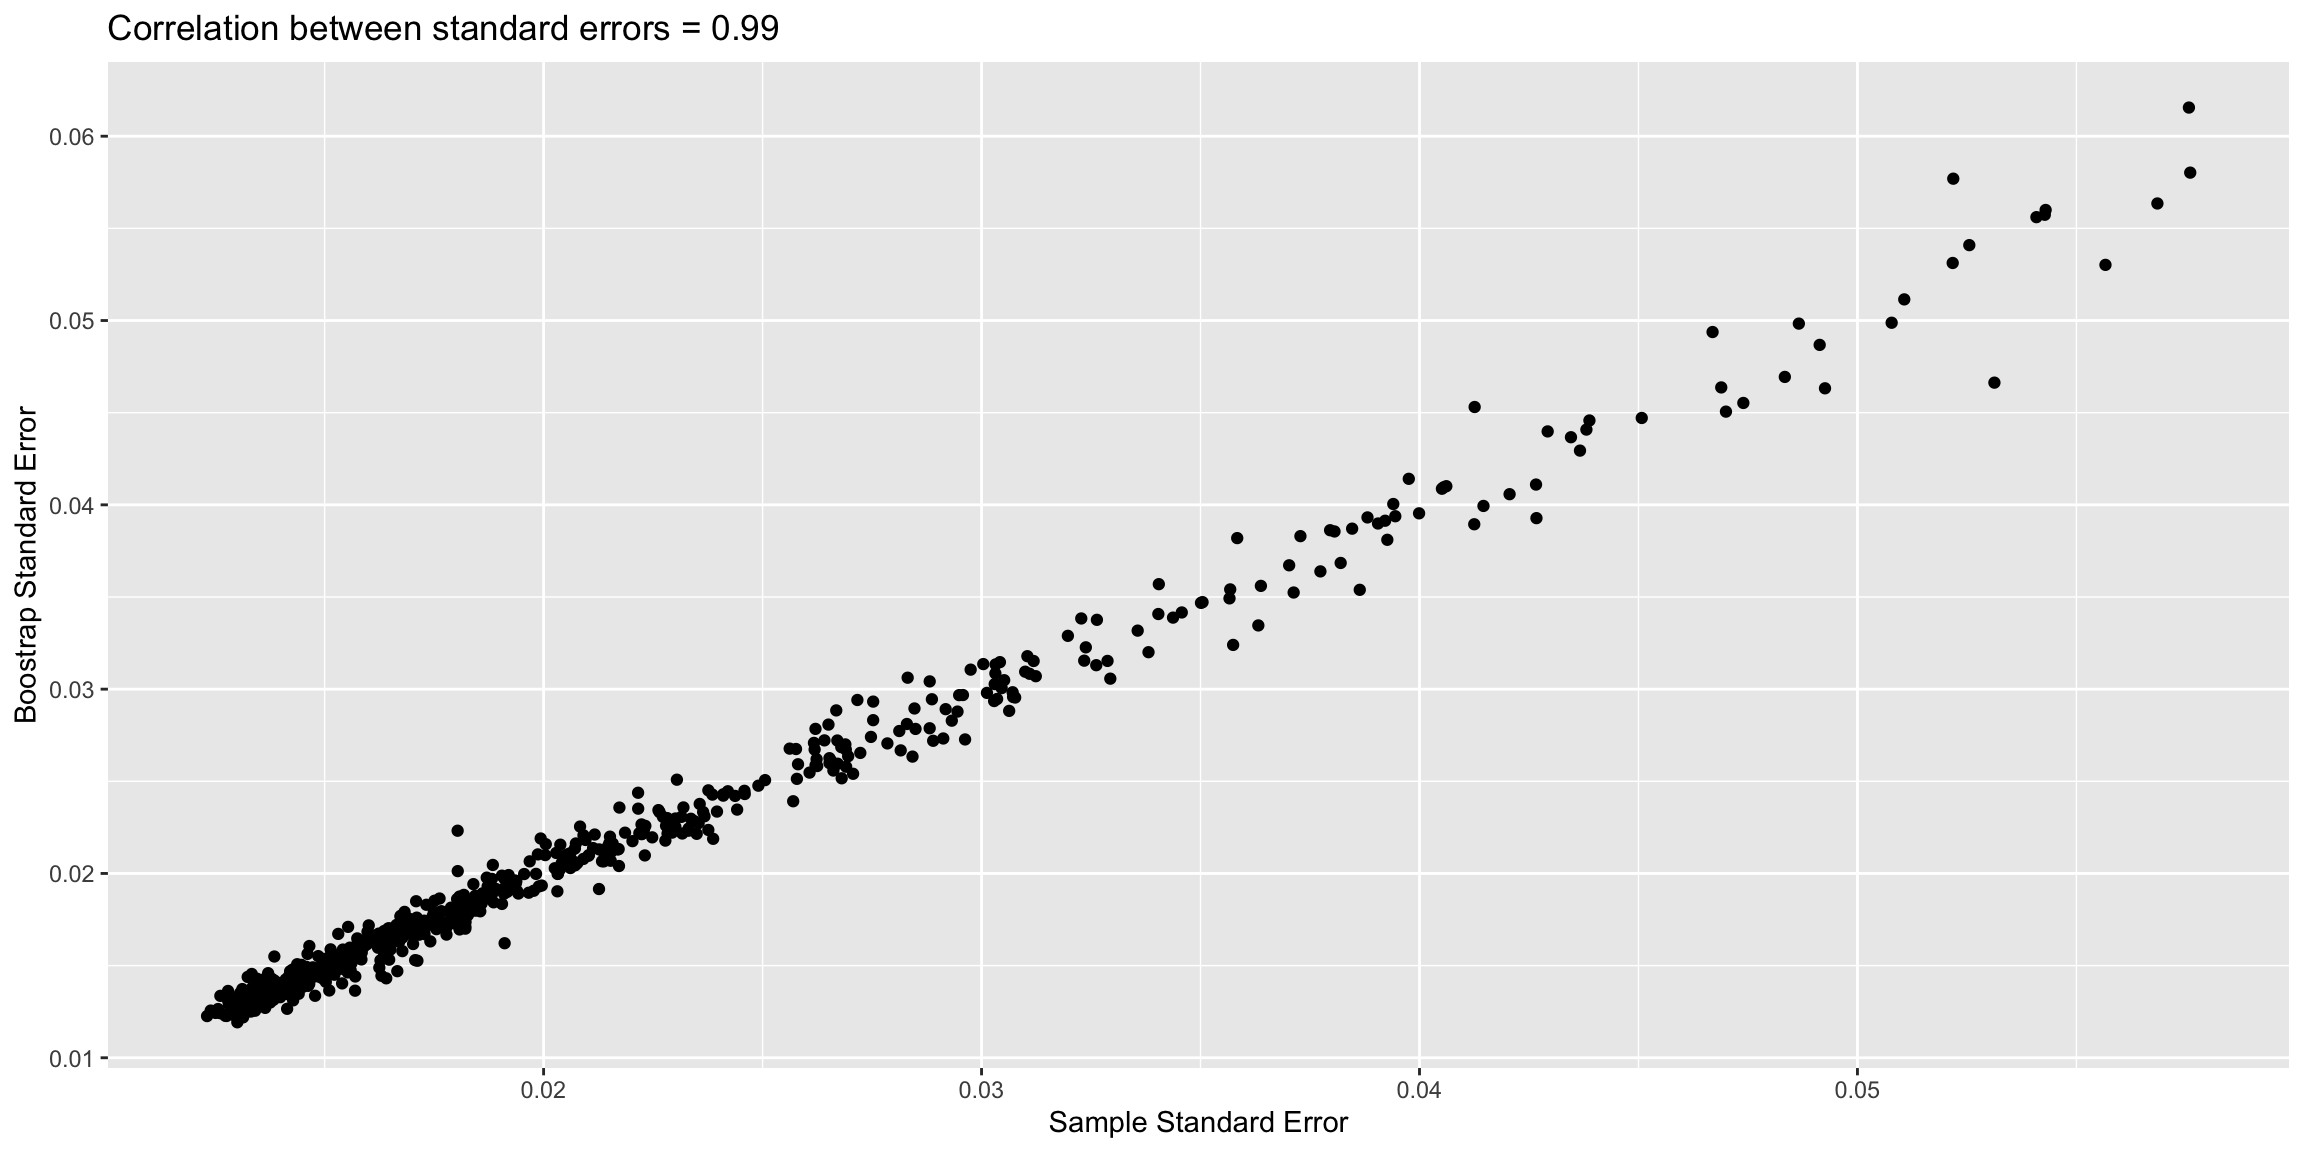
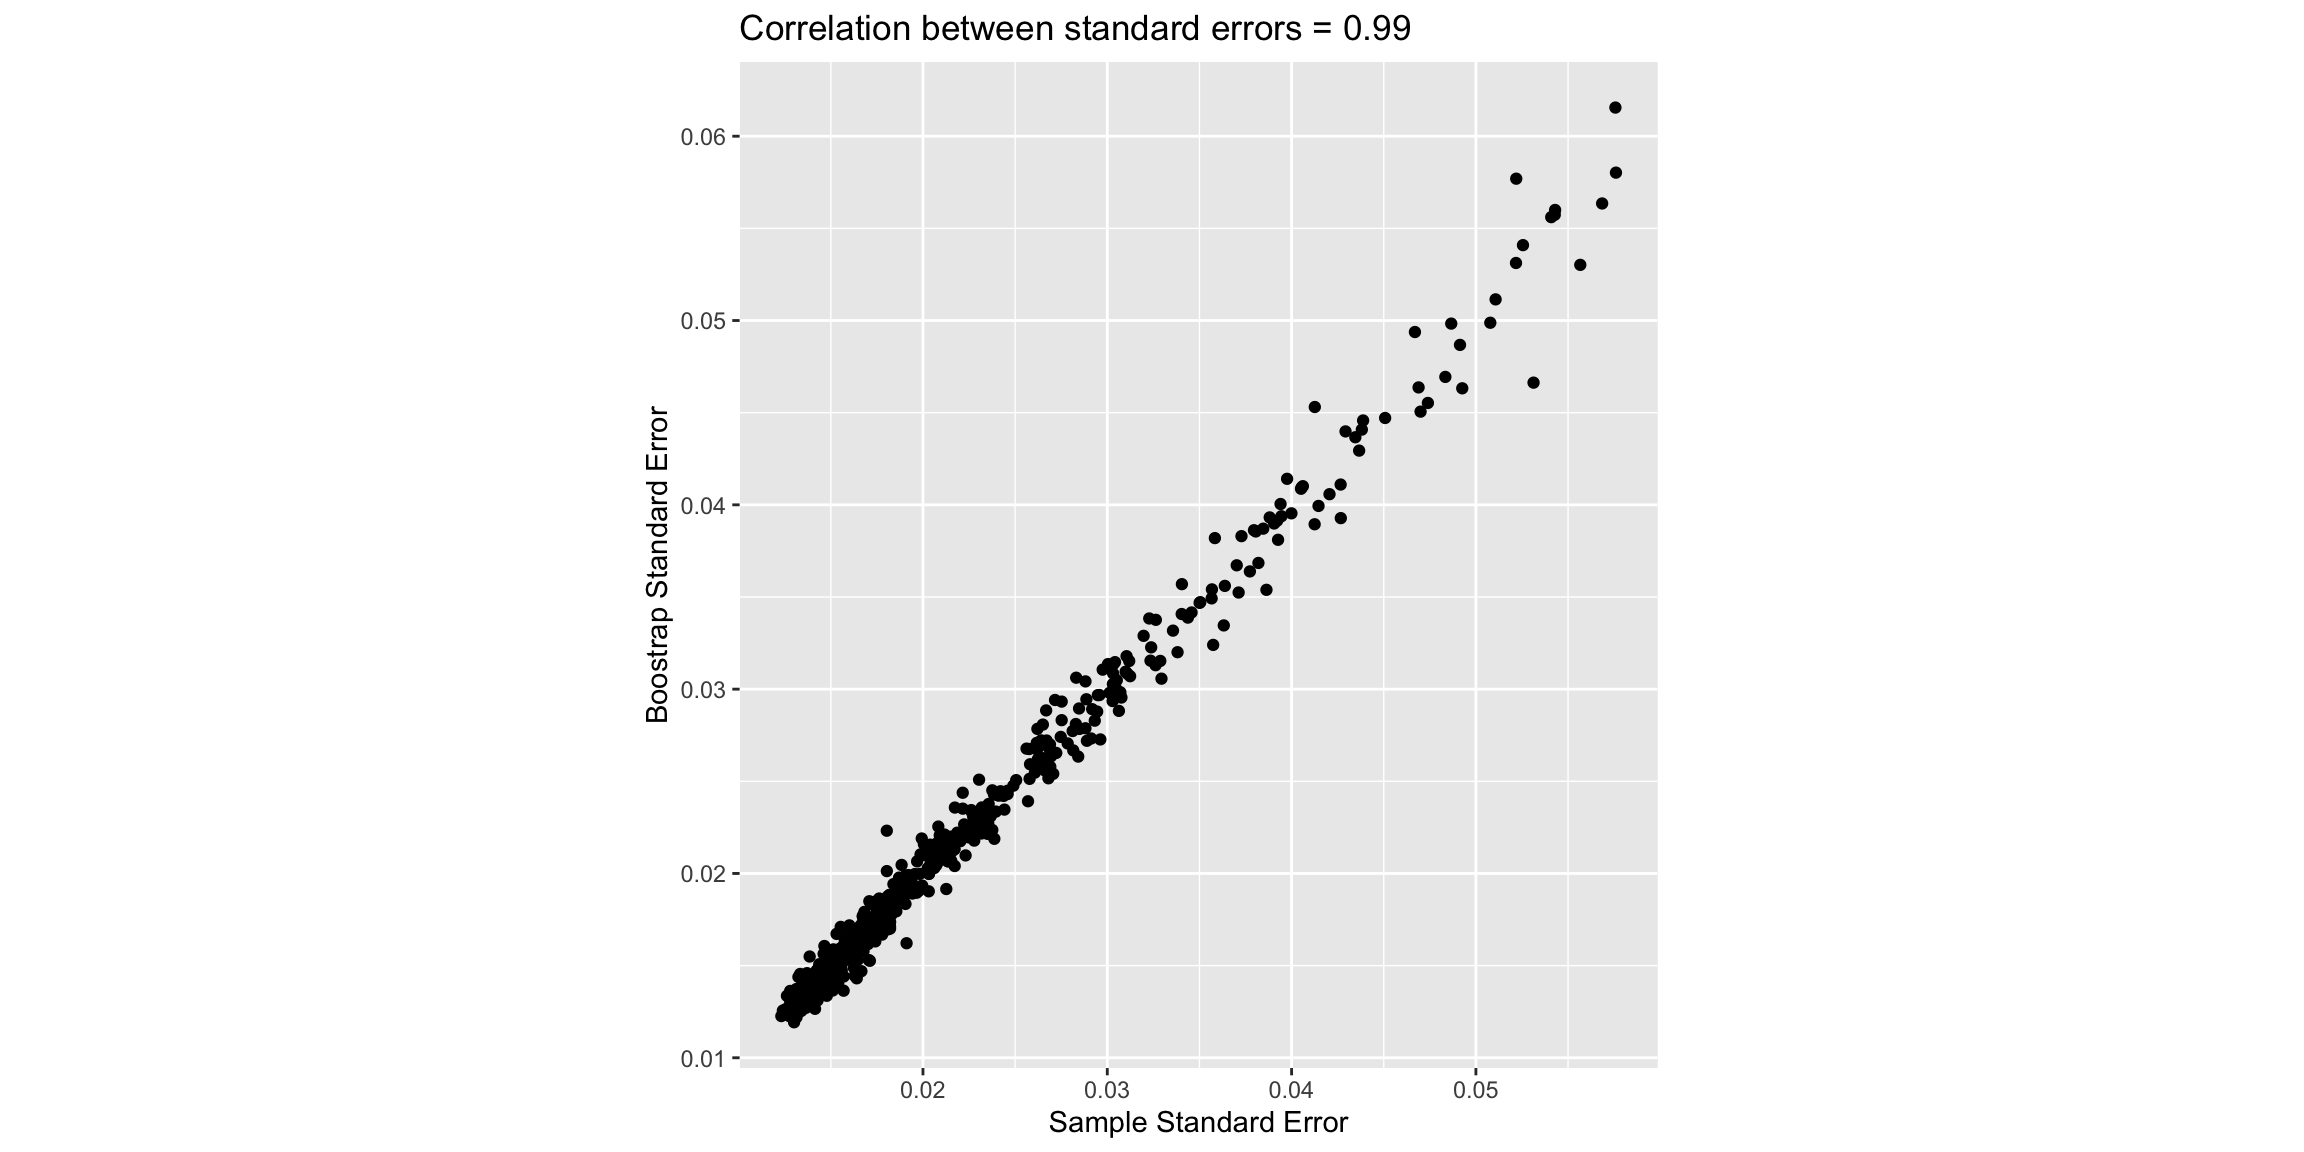
Updated standard error blog post.

diff --git a/docs/posts/2024-10-11-Bootstrap_vs_Standard_Error.html b/docs/posts/2024-10-11-Bootstrap_vs_Standard_Error.html
@@ -543,7 +543,7 @@ window.Quarto = {
 <span id="cb6-12"><a href="#cb6-12" aria-hidden="true" tabindex="-1"></a>    <span class="fu">geom_abline</span>() <span class="sc">+</span></span>
 <span id="cb6-13"><a href="#cb6-13" aria-hidden="true" tabindex="-1"></a>    <span class="fu">geom_point</span>() <span class="sc">+</span></span>
 <span id="cb6-14"><a href="#cb6-14" aria-hidden="true" tabindex="-1"></a>    <span class="fu">ggtitle</span>(<span class="st">'Sample vs boostrap confidence interval width'</span>)</span></code><button title="Copy to Clipboard" class="code-copy-button"><i class="bi"></i></button></pre></div>
-<div class="cell quarto-layout-panel" data-layout-ncol="2" data-layout-align="center">
+<div class="cell quarto-layout-panel" data-layout-align="center" data-layout-ncol="2">
 <div class="quarto-layout-row">
 <div class="quarto-layout-cell" style="flex-basis: 50.0%;justify-content: center;">
 <div class="quarto-figure quarto-figure-center">
@@ -608,7 +608,7 @@ window.Quarto = {
 <span id="cb14-12"><a href="#cb14-12" aria-hidden="true" tabindex="-1"></a>    <span class="fu">geom_abline</span>() <span class="sc">+</span></span>
 <span id="cb14-13"><a href="#cb14-13" aria-hidden="true" tabindex="-1"></a>    <span class="fu">geom_point</span>() <span class="sc">+</span></span>
 <span id="cb14-14"><a href="#cb14-14" aria-hidden="true" tabindex="-1"></a>    <span class="fu">ggtitle</span>(<span class="st">'Sample vs boostrap confidence interval width'</span>)</span></code><button title="Copy to Clipboard" class="code-copy-button"><i class="bi"></i></button></pre></div>
-<div class="cell quarto-layout-panel" data-layout-ncol="2" data-layout-align="center">
+<div class="cell quarto-layout-panel" data-layout-align="center" data-layout-ncol="2">
 <div class="quarto-layout-row">
 <div class="quarto-layout-cell" style="flex-basis: 50.0%;justify-content: center;">
 <div class="quarto-figure quarto-figure-center">
@@ -789,7 +789,8 @@ window.Quarto = {
 <span id="cb38-2"><a href="#cb38-2" aria-hidden="true" tabindex="-1"></a>    <span class="fu">geom_point</span>() <span class="sc">+</span></span>
 <span id="cb38-3"><a href="#cb38-3" aria-hidden="true" tabindex="-1"></a>    <span class="fu">xlab</span>(<span class="st">'Sample Standard Error'</span>) <span class="sc">+</span></span>
 <span id="cb38-4"><a href="#cb38-4" aria-hidden="true" tabindex="-1"></a>    <span class="fu">ylab</span>(<span class="st">'Boostrap Standard Error'</span>) <span class="sc">+</span></span>
-<span id="cb38-5"><a href="#cb38-5" aria-hidden="true" tabindex="-1"></a>    <span class="fu">ggtitle</span>(<span class="fu">paste0</span>(<span class="st">'Correlation between standard errors = '</span>, <span class="fu">round</span>(<span class="fu">cor</span>(results<span class="sc">$</span>samp_se, results<span class="sc">$</span>boot_se), <span class="at">digits =</span> <span class="dv">2</span>)))</span></code><button title="Copy to Clipboard" class="code-copy-button"><i class="bi"></i></button></pre></div>
+<span id="cb38-5"><a href="#cb38-5" aria-hidden="true" tabindex="-1"></a>    <span class="fu">ggtitle</span>(<span class="fu">paste0</span>(<span class="st">'Correlation between standard errors = '</span>, <span class="fu">round</span>(<span class="fu">cor</span>(results<span class="sc">$</span>samp_se, results<span class="sc">$</span>boot_se), <span class="at">digits =</span> <span class="dv">2</span>))) <span class="sc">+</span></span>
+<span id="cb38-6"><a href="#cb38-6" aria-hidden="true" tabindex="-1"></a>    <span class="fu">coord_equal</span>()</span></code><button title="Copy to Clipboard" class="code-copy-button"><i class="bi"></i></button></pre></div>
 <div class="cell-output-display">
 <div class="quarto-figure quarto-figure-center">
 <figure class="figure">

diff --git a/docs/index.html b/docs/index.html
@@ -453,7 +453,7 @@ Oct 16, 2024
 </a>
 </div>
 </div>
-<div class="quarto-post image-right" data-index="2" data-categories="Miscellaneous" data-listing-date-sort="1728619200000" data-listing-file-modified-sort="1730207613556" data-listing-date-modified-sort="NaN" data-listing-reading-time-sort="7" data-listing-word-count-sort="1387">
+<div class="quarto-post image-right" data-index="2" data-categories="Miscellaneous" data-listing-date-sort="1728619200000" data-listing-file-modified-sort="1730207865213" data-listing-date-modified-sort="NaN" data-listing-reading-time-sort="7" data-listing-word-count-sort="1388">
 <div class="thumbnail">
 <p><a href="./posts/2024-10-11-Bootstrap_vs_Standard_Error.html" class="no-external"></a></p><a href="./posts/2024-10-11-Bootstrap_vs_Standard_Error.html" class="no-external">
 <p><img loading="lazy" src="./posts/2024-10-11-Bootstrap_vs_Standard_Error.png" class="thumbnail-image"></p>
